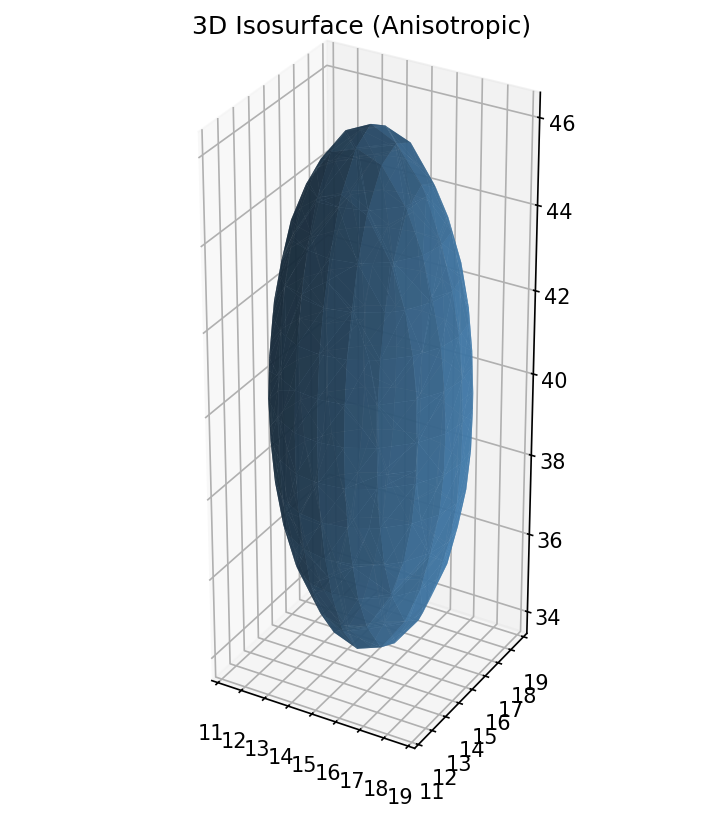
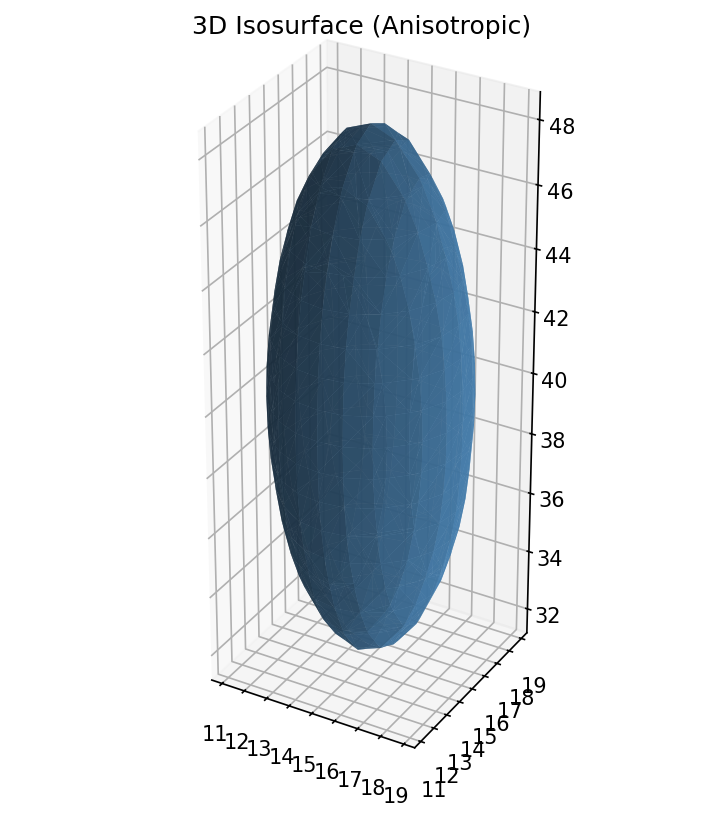
improved  visuals

Changed region(s): [[0.2742, 0.0609, 0.7922, 0.9135], [0.2742, 0.8222, 0.7618, 0.9744], [0.7618, 0.4568, 0.7922, 0.4872]]

diff --git a/main.py b/main.py
@@ -65,7 +65,7 @@ def run_3d_visualization_demo(out_dir: Path) -> None:
     image_iso = line_of_sight_integral(n_iso, axis=2, dx=dx)
 
     # Case 2: Anisotropic
-    D_xy_aniso, D_z_aniso = 0.2, 1.0
+    D_xy_aniso, D_z_aniso = 0.25, 2.0
     n_aniso = cast(np.ndarray, simulate_3d(
         nx=nx, ny=ny, nz=nz, D_xy=D_xy_aniso, D_z=D_z_aniso, t_end=t_end,
         total_particles=total_particles, dx=dx, sigma0=sigma0, initial="gaussian",
@@ -98,14 +98,26 @@ def run_3d_visualization_demo(out_dir: Path) -> None:
     vmax = max(image_iso.max(), image_aniso.max())
     extent = (float(x.min()), float(x.max()), float(y.min()), float(y.max()))
 
-    plt.figure(figsize=(8, 4))
-    plt.subplot(1, 2, 1)
-    plt.imshow(image_iso, origin="lower", cmap="viridis", vmin=vmin, vmax=vmax, extent=extent)
-    plt.title("Isotropic LOS")
-    plt.subplot(1, 2, 2)
-    plt.imshow(image_aniso, origin="lower", cmap="viridis", vmin=vmin, vmax=vmax, extent=extent)
-    plt.title("Anisotropic LOS")
+    fig, axes = plt.subplots(1, 2, figsize=(11.5, 4.5))
+    for ax, (image, label) in zip(
+        axes,
+        [(image_iso, "Isotropic LOS"), (image_aniso, "Anisotropic LOS")],
+    ):
+        im = ax.imshow(image, origin="lower", cmap="magma", vmin=vmin, vmax=vmax, extent=extent)
+        ax.set_title(label)
+        ax.set_xlabel("x (km)")
+        ax.set_ylabel("y (km)")
+        contour_levels = np.linspace(image.min(), image.max(), 8)
+        ax.contour(image, levels=contour_levels, colors="white", alpha=0.35, linewidths=0.8, extent=extent)
+
+    # Place the shared colorbar entirely outside the heatmaps so it never overlaps
+    cbar_ax = fig.add_axes([0.91, 0.26, 0.015, 0.52])
+    cbar = fig.colorbar(im, cax=cbar_ax)
+    cbar.ax.set_ylabel("Integrated density (particles/km²)")
+    cbar.ax.tick_params(labelsize=9)
+    fig.suptitle("LOS Comparison", fontsize=14, fontweight="bold")
     plt.tight_layout()
+    plt.subplots_adjust(top=0.86, right=0.88)
     plt.savefig(out_dir / "diffusion_3d_los_compare.png", dpi=150)
     plt.close()
 
@@ -241,13 +253,17 @@ def run_parameter_study(out_dir: Path) -> None:
     sigma0 = 1.5
     nx, ny, nz = 41, 41, 41
     
-    # Measured diffusion coefficients for Ba at 150-250 km
+    # Diffusion coefficients for Ba at different altitudes (scaled appropriately)
+    # Higher altitudes have significantly higher diffusion due to lower atmospheric density
     altitude_cases = [
         {"alt_km": 150, "D_xy": 0.15, "D_z": 0.05, "drift": (0.0, 0.0, 0.0)},
-        {"alt_km": 200, "D_xy": 0.22, "D_z": 0.08, "drift": (0.0, 0.0, 0.0)},
-        {"alt_km": 250, "D_xy": 0.30, "D_z": 0.12, "drift": (0.0, 0.0, 0.0)},
+        {"alt_km": 300, "D_xy": 0.50, "D_z": 0.20, "drift": (0.0, 0.0, 0.0)},
+        {"alt_km": 600, "D_xy": 1.50, "D_z": 0.60, "drift": (0.0, 0.0, 0.0)},
     ]
 
+    # Store all images for side-by-side comparison
+    images = []
+    
     for case in altitude_cases:
         alt_km = case["alt_km"]
         D_xy = case["D_xy"]
@@ -260,14 +276,65 @@ def run_parameter_study(out_dir: Path) -> None:
             initial="gaussian", drift=drift,
         ))
         image = line_of_sight_integral(n, axis=2, dx=dx)
+        images.append((alt_km, image))
         
-        plt.figure()
-        plt.imshow(image, origin="lower", cmap="viridis")
-        plt.colorbar(label="Integrated density")
-        plt.title(f"LOS Density (Alt {alt_km} km)")
+        # Individual plots with independent color scales for maximum contrast
+        plt.figure(figsize=(8, 7))
+        x = (np.arange(nx) - nx // 2) * dx
+        y = (np.arange(ny) - ny // 2) * dx
+        extent = (float(x.min()), float(x.max()), float(y.min()), float(y.max()))
+        
+        im = plt.imshow(image, origin="lower", cmap="plasma", extent=extent)
+        
+        # Add contour lines to emphasize structure
+        levels = np.linspace(image.min(), image.max(), 8)
+        plt.contour(image, levels=levels, colors='white', alpha=0.3, 
+                   linewidths=1, extent=extent)
+        
+        plt.colorbar(im, label="Integrated density (particles/km²)")
+        plt.xlabel("x (km)")
+        plt.ylabel("y (km)")
+        plt.title(f"Cloud Diffusion at {alt_km} km Altitude\n" +
+                 f"$D_{{xy}}$ = {D_xy} km²/s, $D_z$ = {D_z} km²/s", fontsize=12, fontweight='bold')
         plt.tight_layout()
         plt.savefig(out_dir / f"diffusion_3d_los_alt_{alt_km}km.png", dpi=150)
         plt.close()
+    
+    # Create side-by-side comparison with same color scale and more vertical room for titles
+    fig, axes = plt.subplots(1, 3, figsize=(18, 6.5))
+    
+    # Use the same color scale for direct comparison
+    vmin = min(img.min() for _, img in images)
+    vmax = max(img.max() for _, img in images)
+    
+    x = (np.arange(nx) - nx // 2) * dx
+    y = (np.arange(ny) - ny // 2) * dx
+    extent = (float(x.min()), float(x.max()), float(y.min()), float(y.max()))
+    
+    for ax, (alt_km, image) in zip(axes, images):
+        im = ax.imshow(image, origin="lower", cmap="plasma", vmin=vmin, vmax=vmax, extent=extent)
+        
+        # Add contour lines
+        levels = np.linspace(vmin, vmax, 8)
+        ax.contour(image, levels=levels, colors='white', alpha=0.4, 
+                  linewidths=1, extent=extent)
+        
+        ax.set_xlabel("x (km)", fontsize=10)
+        ax.set_ylabel("y (km)", fontsize=10)
+        ax.set_title(f"{alt_km} km\n$D_{{xy}}$={altitude_cases[images.index((alt_km, image))]['D_xy']}, " +
+                    f"$D_z$={altitude_cases[images.index((alt_km, image))]['D_z']}", 
+                    fontsize=11, fontweight='bold')
+    
+    # Add single colorbar outside the subplots so it never overlaps them
+    cbar_ax = fig.add_axes([0.94, 0.20, 0.02, 0.62])
+    cbar = fig.colorbar(im, cax=cbar_ax, label="Integrated density (particles/km²)", aspect=30)
+    cbar.ax.tick_params(labelsize=9)
+    
+    fig.suptitle("Cloud Diffusion Comparison at Different Altitudes", 
+                fontsize=14, fontweight='bold', y=0.97)
+    plt.subplots_adjust(top=0.88, bottom=0.12, left=0.05, right=0.92, wspace=0.25)
+    plt.savefig(out_dir / "diffusion_3d_altitude_comparison.png", dpi=150, bbox_inches='tight')
+    plt.close()
         
 def run_mass_conservation_check(out_dir: Path) -> None:
     """
